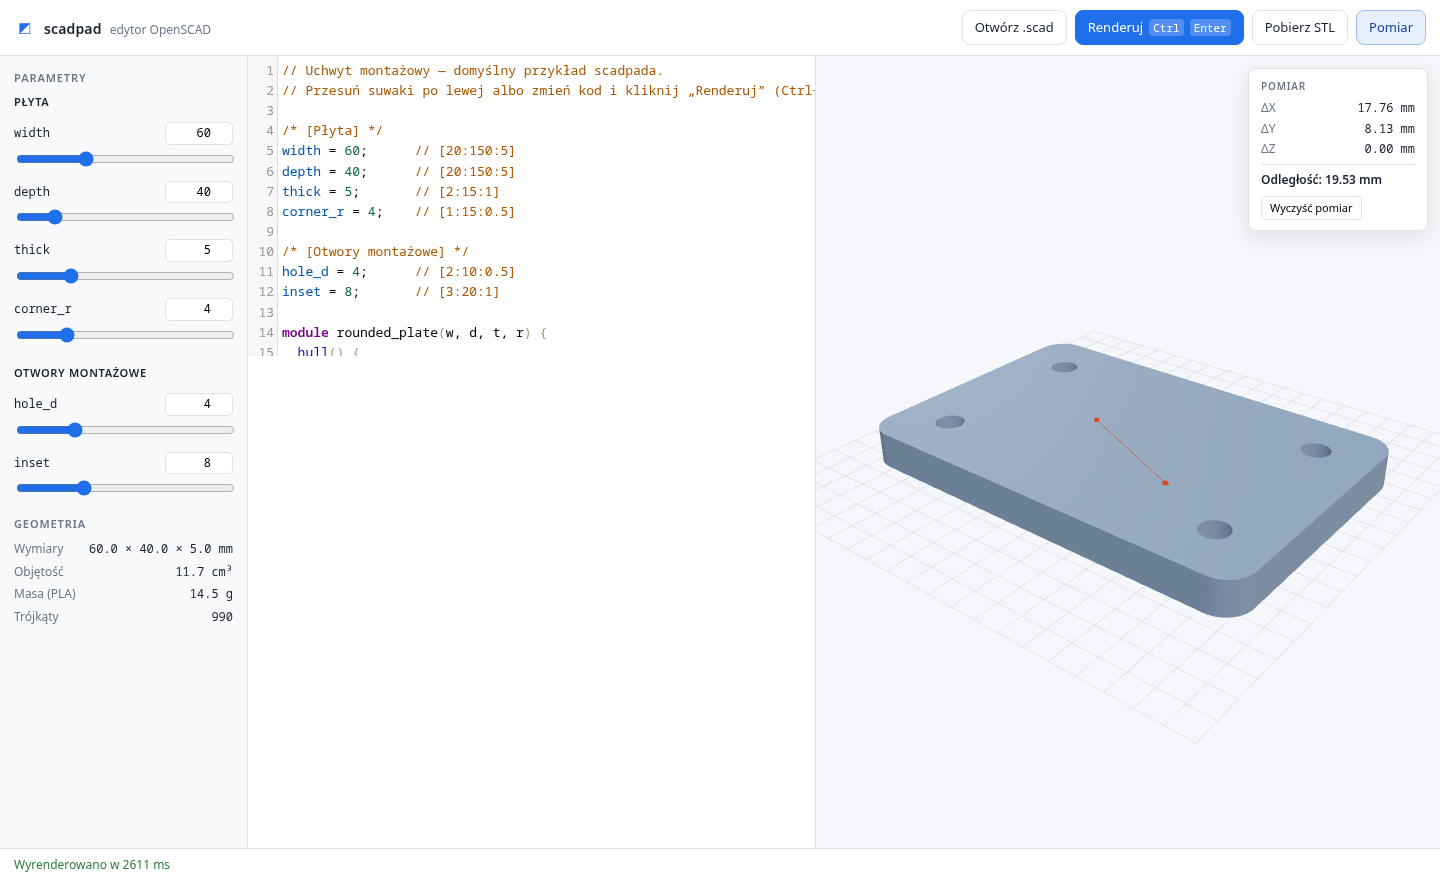
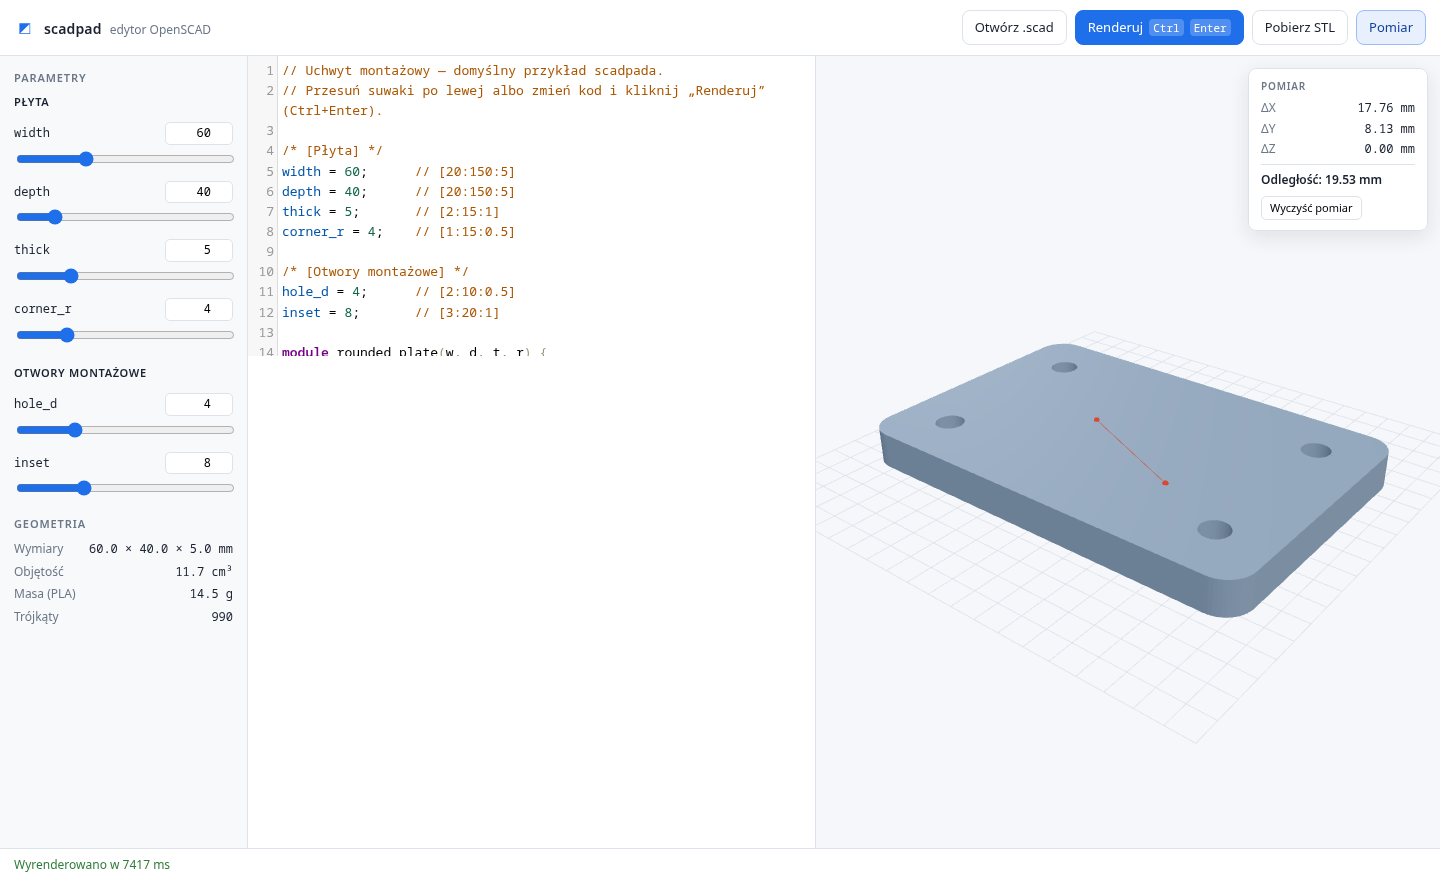
fix: wrap long lines in the editor

diff --git a/src/editor.js b/src/editor.js
@@ -19,7 +19,7 @@ export function createEditor(container, { value, onChange, onRender }) {
     lineNumbers: true,
     indentUnit: 4,
     tabSize: 4,
-    lineWrapping: false,
+    lineWrapping: true,
     matchBrackets: true,
     autoCloseBrackets: true,
     viewportMargin: 40,
